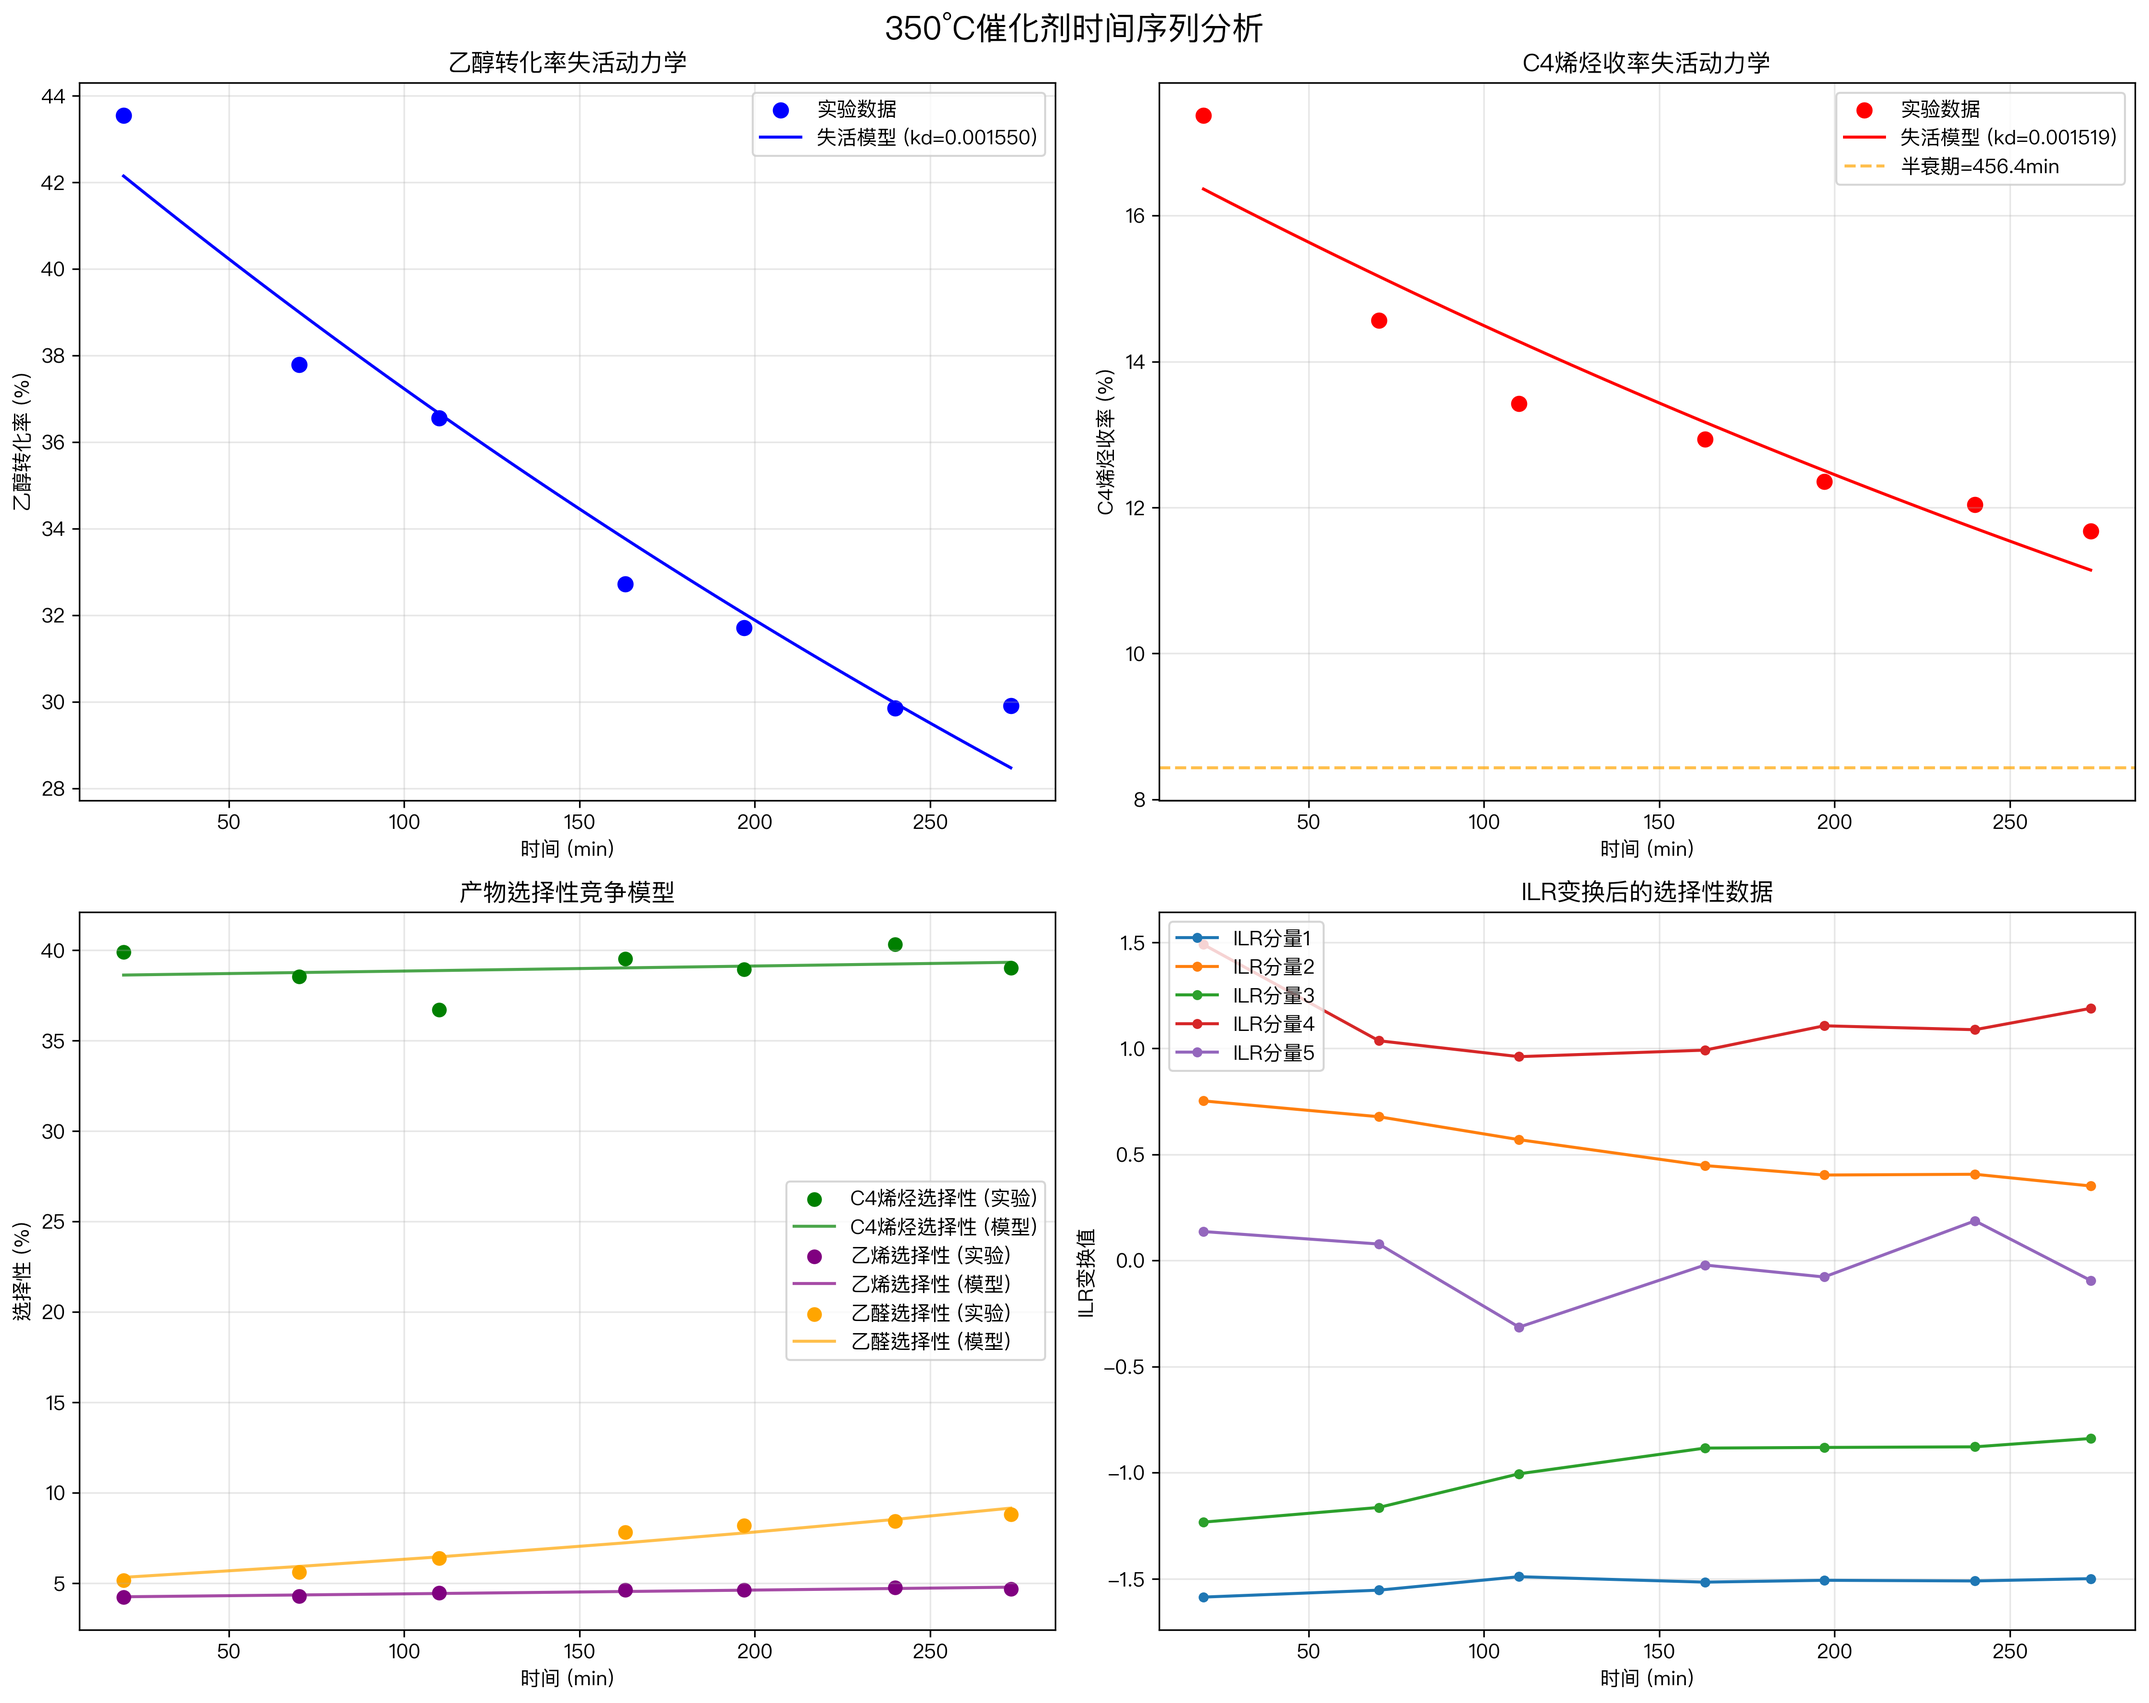
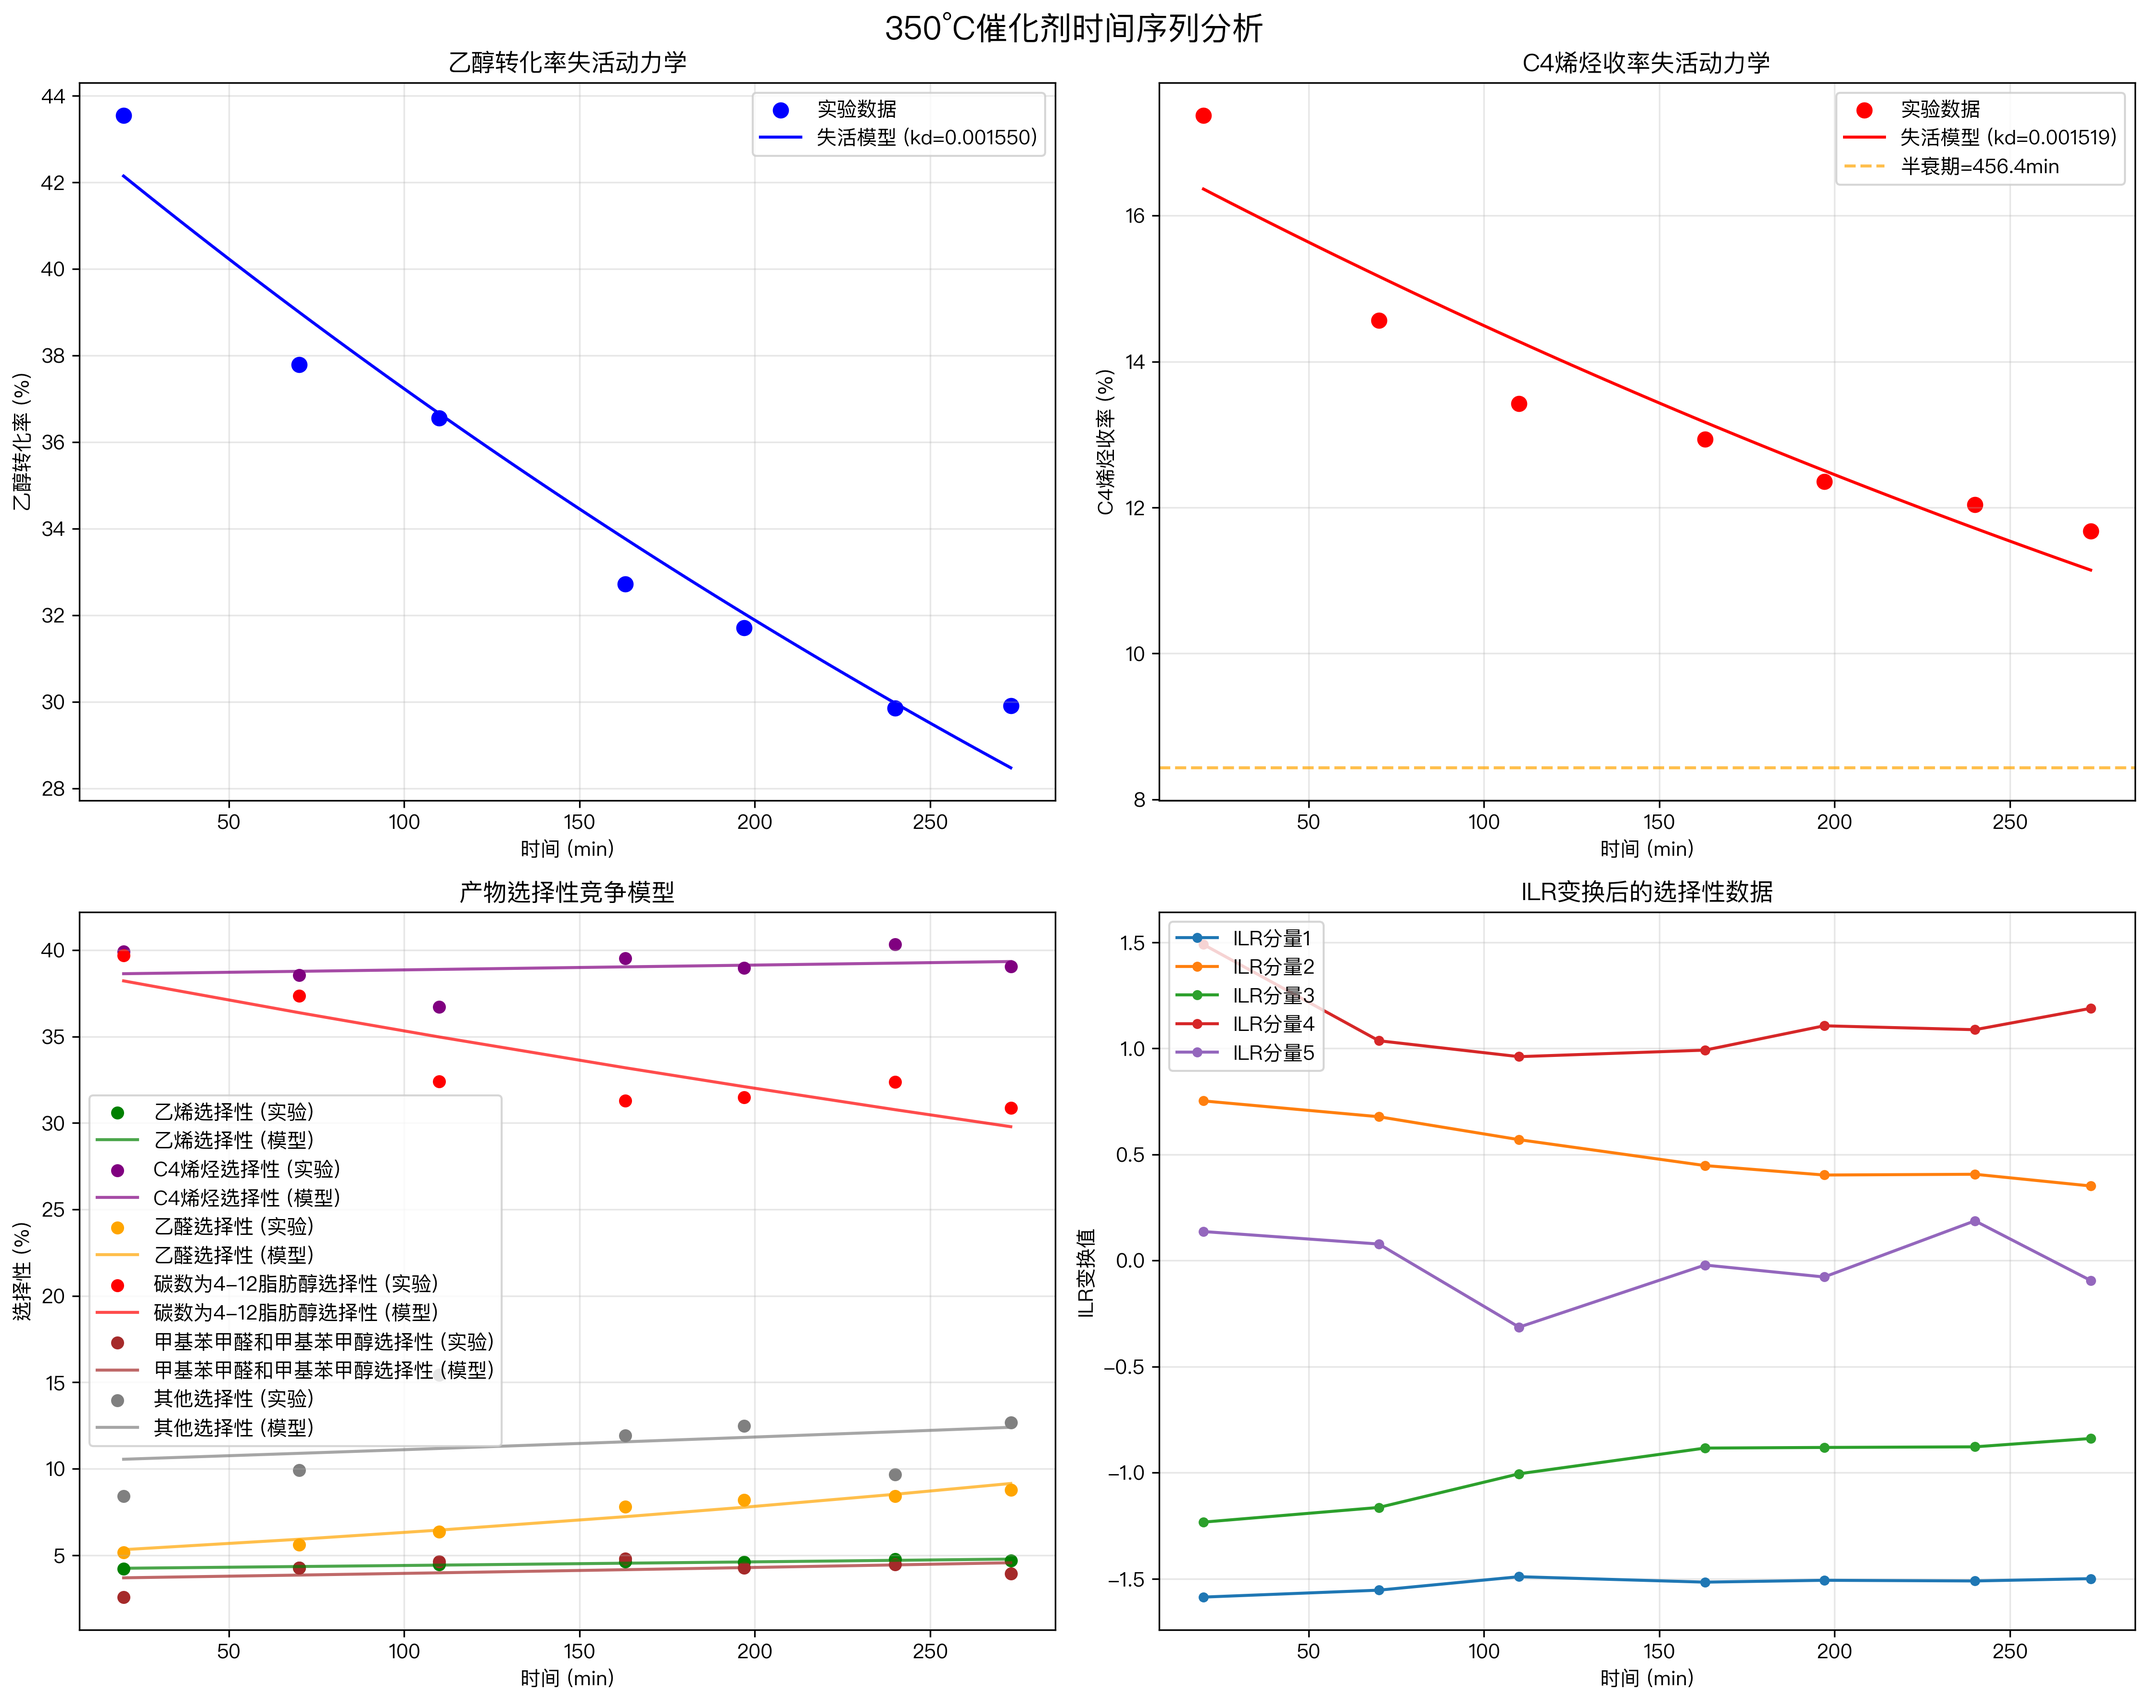
1-2

diff --git a/21B/1/1-2/1-2时间序列分析.py b/21B/1/1-2/1-2时间序列分析.py
@@ -77,13 +77,16 @@ def analyze_time_series_data():
     
     # 加载数据
     try:
-        df = pd.read_csv('../附件2.csv')
+        df = pd.read_csv('../../附件2.csv')
     except FileNotFoundError:
         try:
-            df = pd.read_csv('附件2.csv')
+            df = pd.read_csv('../附件2.csv')
         except FileNotFoundError:
-            print("错误：未找到 '附件2.csv' 文件。")
-            return
+            try:
+                df = pd.read_csv('附件2.csv')
+            except FileNotFoundError:
+                print("错误：未找到 '附件2.csv' 文件。")
+                return
     
     # 清理数据
     df = df.dropna()
@@ -172,15 +175,16 @@ def analyze_time_series_data():
     # =================== 3. 产物选择性竞争模型 ===================
     print(f"\n3. 产物选择性竞争模型分析")
     
-    # 选择主要产物进行竞争分析
-    main_products = ['C4烯烃选择性', '乙烯选择性', '乙醛选择性']
-    main_selectivities = df[main_products].values
+    # 分析所有产物的选择性竞争
+    all_products = ['乙烯选择性', 'C4烯烃选择性', '乙醛选择性', 
+                    '碳数为4-12脂肪醇选择性', '甲基苯甲醛和甲基苯甲醇选择性', '其他选择性']
+    all_selectivities = df[all_products].values
     
     competition_results = {}
     
-    for i, product in enumerate(main_products):
+    for i, product in enumerate(all_products):
         try:
-            selectivity = main_selectivities[:, i]
+            selectivity = all_selectivities[:, i]
             
             # 拟合竞争模型 S = A * exp(B*t)
             popt_comp, pcov_comp = curve_fit(competition_model_single, time, selectivity,
@@ -242,10 +246,10 @@ def analyze_time_series_data():
     
     # 4.3 产物选择性竞争图
     ax3 = axes[1, 0]
-    colors = ['green', 'purple', 'orange']
-    for i, (product, color) in enumerate(zip(main_products, colors)):
-        selectivity = main_selectivities[:, i]
-        ax3.scatter(time, selectivity, color=color, label=f'{product} (实验)', s=40)
+    colors = ['green', 'purple', 'orange', 'red', 'brown', 'gray']
+    for i, (product, color) in enumerate(zip(all_products, colors)):
+        selectivity = all_selectivities[:, i]
+        ax3.scatter(time, selectivity, color=color, label=f'{product} (实验)', s=30)
         
         if competition_results[product] is not None:
             fitted = competition_results[product]['fitted']
@@ -292,7 +296,7 @@ def analyze_time_series_data():
     
     # 竞争模型结果
     competition_data = []
-    for product in main_products:
+    for product in all_products:
         if competition_results[product] is not None:
             result = competition_results[product]
             competition_data.append({
@@ -326,7 +330,7 @@ def analyze_time_series_data():
         print(f"   - 建议催化剂再生时机: {half_life*0.8:.1f} min")
     
     print(f"2. 产物竞争关系:")
-    for product in main_products:
+    for product in all_products:
         if competition_results[product] is not None:
             result = competition_results[product]
             trend = "增强" if result['B'] > 0 else "减弱" if result['B'] < 0 else "稳定"
